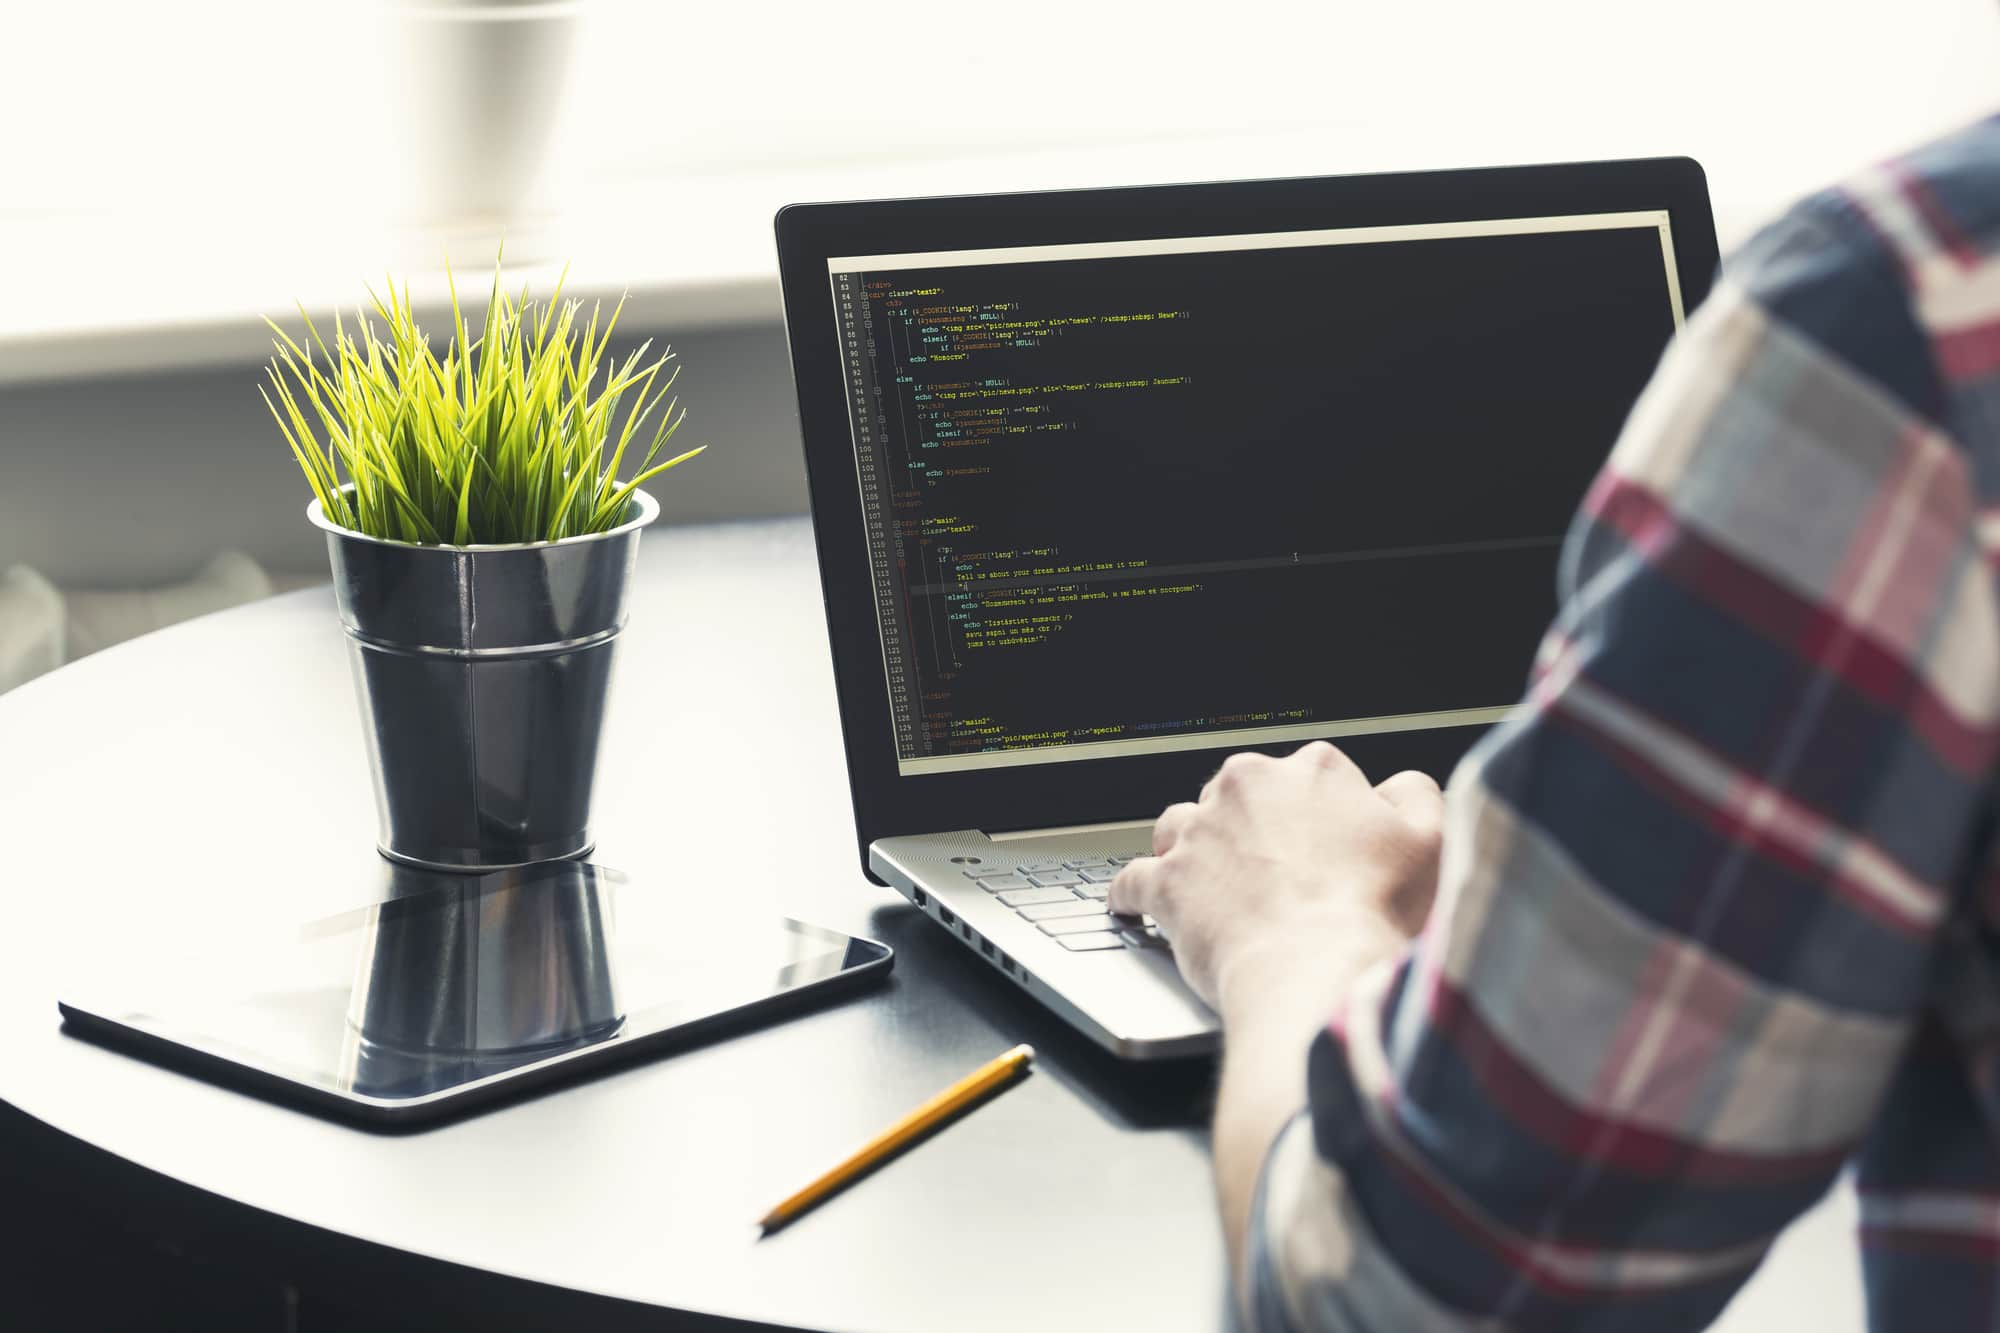
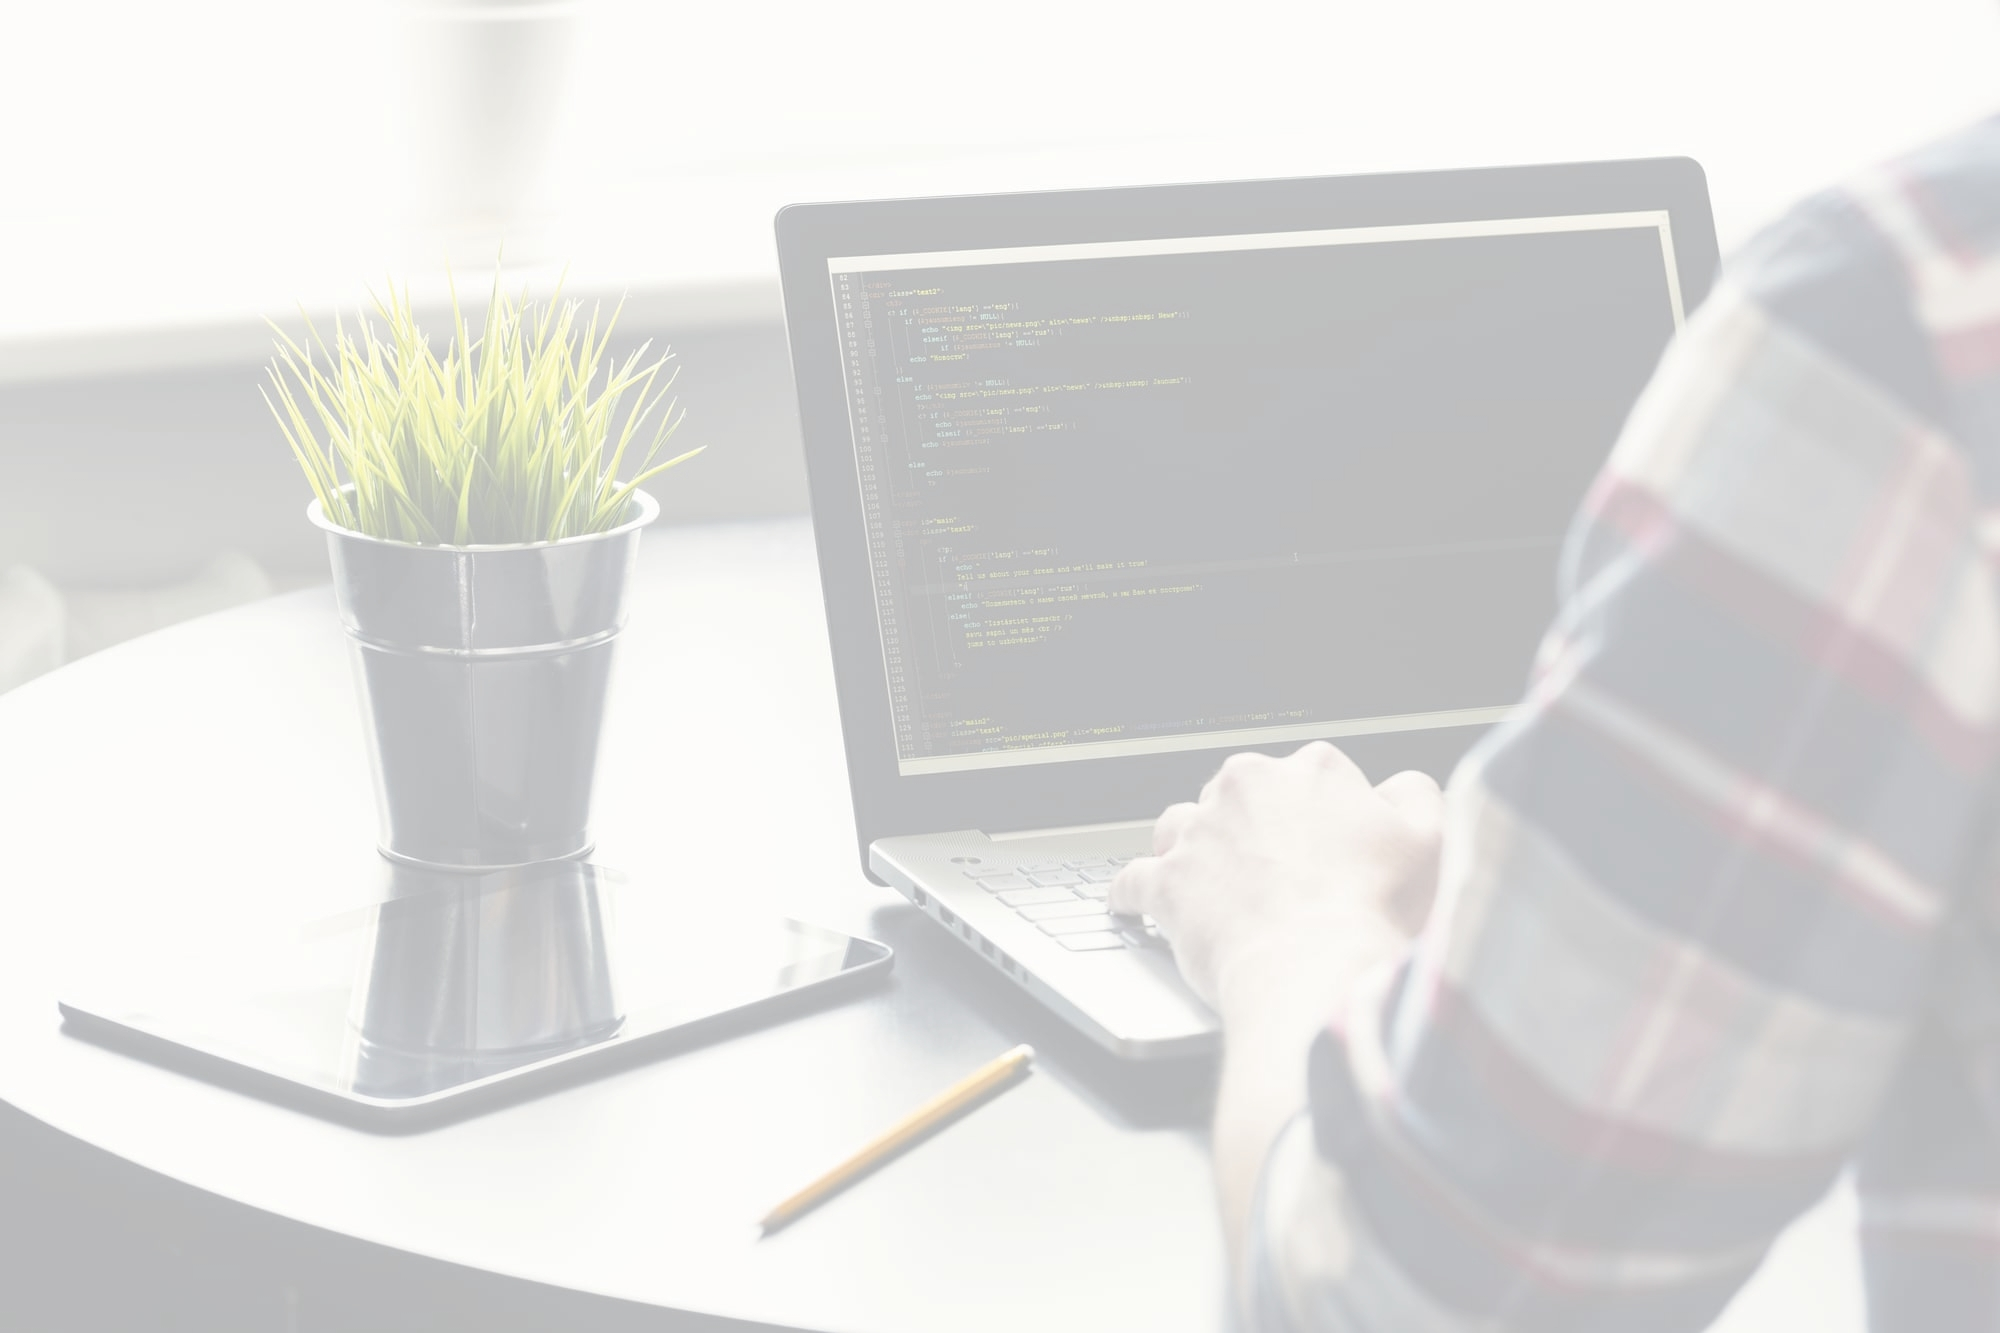
add opacity to main bg img

diff --git a/css/style.min.css b/css/style.min.css
@@ -1,1 +1,1 @@
-body{font-size:20px;line-height:24px;font-weight:400;font-family:'Roboto', 'Arial', sans-serif;text-transform:uppercase}img{max-width:100%;height:auto}.visually-hidden{position:absolute;width:1px;height:1px;margin:-1px;border:0;padding:0;white-space:nowrap;-webkit-clip-path:inset(100%);clip-path:inset(100%);clip:rect(0 0 0 0);overflow:hidden}.navbar{padding:12px 0 8px 0}.navbar__toggler-button{position:relative;border:none}.navbar__toggler-button:hover,.navbar__toggler-button:focus{-webkit-box-shadow:none;box-shadow:none}.navbar__toggler-button:hover:hover::after,.navbar__toggler-button:hover:focus::after,.navbar__toggler-button:focus:hover::after,.navbar__toggler-button:focus:focus::after{content:"";position:absolute;width:45px;height:50px;right:0;top:-19px;background-image:url(../img/button-heart-red.png);background-position:0 0;background-repeat:no-repeat}.navbar__toggler-button-img{content:"";position:absolute;width:45px;height:50px;right:0;top:-19px;background-image:url(../img/button-heart-black.png);background-position:0 0;background-repeat:no-repeat}.navbar-collapse__item{border:none}.navbar-collapse__img{margin-left:35%}.main{padding-top:10%;background-image:url(../img/bg-1.jpg);background-position:0 0;background-repeat:no-repeat;background-attachment:fixed;background-size:100% auto}.main .promo{text-align:center}.main .promo__header{font-size:45px}.main .promo-wrap{margin-top:20%}.main .promo-wrap__subheader{font-size:25px;font-weight:700;color:#ff0000}.main .promo-wrap__text{font-size:25px;font-weight:700}.main .arrow-scroll-down{position:relative;height:100vh}.main .arrow-scroll-down__one{width:50px;position:absolute;top:10%;left:calc(50% - 25px);-webkit-animation:arrowDown 2s infinite;animation:arrowDown 2s infinite}.main .arrow-scroll-down__two{opacity:0;-webkit-animation-delay:1s;animation-delay:1s}@-webkit-keyframes arrowDown{0%{bottom:30px;opacity:1}100%{bottom:0px;opacity:0}}@keyframes arrowDown{0%{bottom:30px;opacity:1}100%{bottom:0px;opacity:0}}
+body{font-size:20px;line-height:24px;font-weight:400;font-family:'Roboto', 'Arial', sans-serif;text-transform:uppercase}img{max-width:100%;height:auto}.visually-hidden{position:absolute;width:1px;height:1px;margin:-1px;border:0;padding:0;white-space:nowrap;-webkit-clip-path:inset(100%);clip-path:inset(100%);clip:rect(0 0 0 0);overflow:hidden}.navbar{padding:12px 0 8px 0}.navbar__toggler-button{position:relative;border:none}.navbar__toggler-button:hover,.navbar__toggler-button:focus{-webkit-box-shadow:none;box-shadow:none}.navbar__toggler-button:hover:hover::after,.navbar__toggler-button:hover:focus::after,.navbar__toggler-button:focus:hover::after,.navbar__toggler-button:focus:focus::after{content:"";position:absolute;width:45px;height:50px;right:0;top:-19px;background-image:url(../img/button-heart-red.png);background-position:0 0;background-repeat:no-repeat}.navbar__toggler-button-img{content:"";position:absolute;width:45px;height:50px;right:0;top:-19px;background-image:url(../img/button-heart-black.png);background-position:0 0;background-repeat:no-repeat}.navbar-collapse__item{border:none}.navbar-collapse__img{margin-left:35%}.main{padding-top:10%;background-image:url(../img/bg-1.jpg);background-position:center;background-repeat:no-repeat;background-attachment:fixed;height:100vh}.main .promo{text-align:center}.main .promo__header{font-size:45px}.main .promo-wrap{margin-top:20%}.main .promo-wrap__subheader{font-size:25px;font-weight:700;color:#ff0000}.main .promo-wrap__text{font-size:25px;font-weight:700}.main .arrow-scroll-down{position:relative;height:100vh}.main .arrow-scroll-down__one{width:50px;position:absolute;top:10%;left:calc(50% - 25px);-webkit-animation:arrowDown 2s infinite;animation:arrowDown 2s infinite}.main .arrow-scroll-down__two{opacity:0;-webkit-animation-delay:1s;animation-delay:1s}@-webkit-keyframes arrowDown{0%{bottom:30px;opacity:1}100%{bottom:0px;opacity:0}}@keyframes arrowDown{0%{bottom:30px;opacity:1}100%{bottom:0px;opacity:0}}

diff --git a/css/sass/style.sass b/css/sass/style.sass
@@ -4,7 +4,6 @@ body
 	font-weight: 400
 	font-family: 'Roboto', 'Arial', sans-serif
 	text-transform: uppercase
-
 img
 	max-width: 100%
 	height: auto
@@ -78,11 +77,14 @@ img
 .main
 	padding-top: 10%
 	background-image: url(../img/bg-1.jpg)
-	background-position: 0 0
+	background-position: center
 	background-repeat: no-repeat
 	background-attachment: fixed
-	background-size: 100% auto
+	height: 100vh
+
+	.container
 	.promo
+
 		text-align: center
 		&__header
 			font-size: 45px

diff --git a/index.html b/index.html
@@ -14,7 +14,7 @@
 	<link rel="shortcut icon" href="img/icon/FB.ico" type="image/x-icon">
 </head>
 <body>
-	<header class="header main-header shadow-sm p-3 mb-5 bg-body rounded">
+	<header class="header main-header shadow-sm bg-body rounded">
 		<div class="container">
 			<nav class="navbar navbar-expand-lg navbar-light">
 				<a class="navbar-brand navbar__brand-link" href="#">
